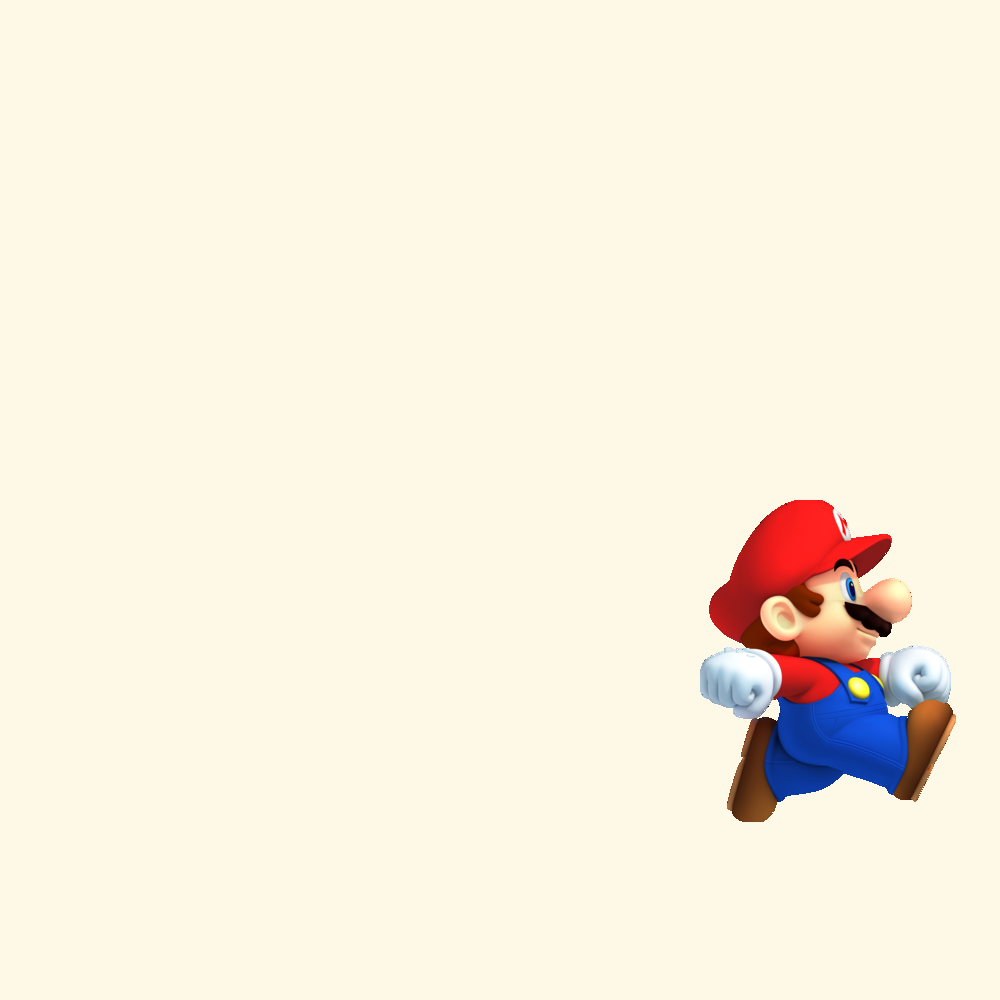
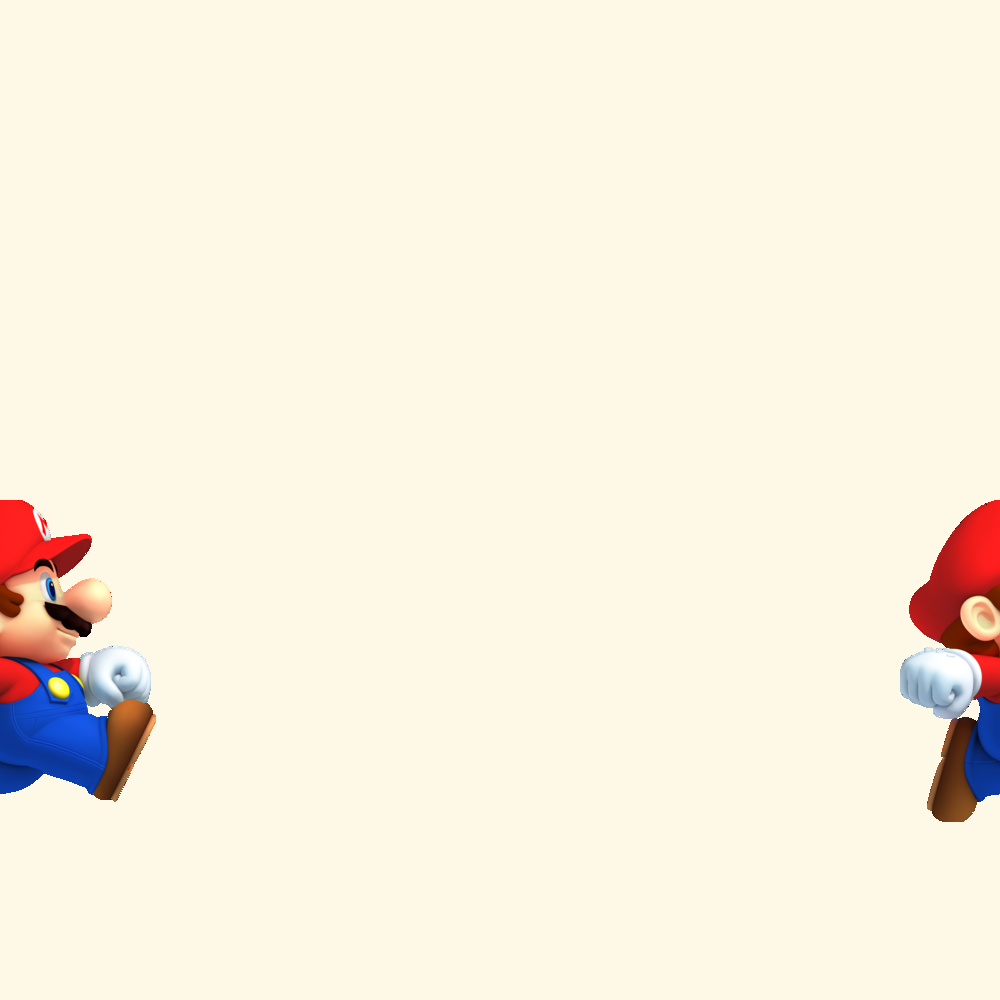
feat: añadida la funcion repeat_all(), la cual ejecuta todos los movimientos guardados en el historial

Changed region(s): [[0.682, 0.496, 1.0, 0.837], [0.0, 0.496, 0.155, 0.806]]

diff --git a/moving_image.h b/moving_image.h
@@ -357,6 +357,33 @@ public:
     ctrlmz.pop();
   }
 
+  void repeat_all(){
+      if (ctrlz.empty()){
+        return;
+      }
+
+      for (int i = 0; i < ctrlz.size(); i++){
+        std::pair<int,int> temp = ctrlz.front();
+        ctrlz.pop_front();
+        switch (temp.first){
+          case 0:
+            move_left(temp.second);
+            break;
+          case 1:
+            move_right(temp.second);
+            break;
+          case 2:
+            move_up(temp.second);
+            break;
+          case 3:
+            move_down(temp.second);
+            break;
+          default:
+            break;
+          }
+      }
+  }
+
 
 private:
   // Función privada que guarda la imagen en formato .png

diff --git a/test.cpp b/test.cpp
@@ -29,6 +29,9 @@ int main() {
   sleep(1);
   im.redo();
   im.draw("imagen.png");
+  sleep(1);
+  im.repeat_all();
+  im.draw("imagen.png");
   /* NOTA 1: Si usan el mismo nombre para las imágenes, entonces cada llamada al
   método draw() sobreescribirá a la imagen */
 
